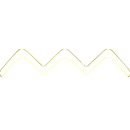
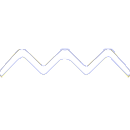
sponsor section done

diff --git a/src/styles/app.scss b/src/styles/app.scss
@@ -48,6 +48,9 @@ $my-black: #060606;
         color: $main-btn-color;
     }
 }
+.separator {
+    width: 70px;
+}
 // -----------------------------------------
 #app {
     font-family: "Barlow Semi Condensed", sans-serif;
@@ -117,9 +120,6 @@ $my-black: #060606;
             color: white;
             line-height: 1;
         }
-        img {
-            width: 70px;
-        }
         p {
             font-size: 23px;
             font-weight: 400;
@@ -169,9 +169,6 @@ $my-black: #060606;
                 font-size: 48px;
                 font-weight: 500;
                 color: white;
-            }
-            img {
-                width: 70px;
             }
             .avatar-cont {
                 margin-top: -12px;
@@ -230,8 +227,9 @@ $my-black: #060606;
                     img {
                         transform: scale(0.3);
                         position: absolute;
-                        bottom: 45px;
-                        left: -45px;
+                        bottom: 42px;
+                        left: -42px;
+                        width: 125px;
                     }
                     h2 {
                         color: white;
@@ -382,7 +380,6 @@ $my-black: #060606;
                 }
             }
             img {
-                width: 70px;
                 margin-bottom: 20px;
             }
             input {
@@ -480,7 +477,6 @@ $my-black: #060606;
             margin: auto;
         }
         img {
-            width: 70px;
             margin-bottom: 15px;
         }
         .small-p {
@@ -492,6 +488,22 @@ $my-black: #060606;
             font-size: 18px;
             &:hover {
                 background-color: $hover-button;
+            }
+        }
+    }
+    .sponsor-cont {
+        padding: 120px 0;
+        .card {
+            text-align: center;
+            border: 0;
+            display: flex;
+            align-items: center;
+            p {
+                font-size: 18px;
+                margin-top: -15px;
+            }
+            .card-img-top {
+                width: 55%;
             }
         }
     }

diff --git a/src/components/StudiosCard.vue b/src/components/StudiosCard.vue
@@ -1,0 +1,60 @@
+<template>
+  <div class="container-fluid sponsor-cont">
+    <div class="container">
+      <div class="row g-4">
+        <div class="col-3" v-for="(card, i) in sponsorList" :key="i">
+          <div class="card">
+            <img :src="card.imgUrl" class="card-img-top mb-3" alt="logo" />
+            <img
+              class="separator"
+              src="@/assets/img/zigzag-blu.png"
+              alt="separator"
+            />
+            <div class="card-body">
+              <p class="card-text">
+                {{ card.text }}
+              </p>
+              <a href="#" class="my-link">
+                <span
+                  >{{ card.link }}
+                  <i class="fa fa-angle-right ps-2" aria-hidden="true"></i
+                ></span>
+              </a>
+            </div>
+          </div>
+        </div>
+      </div>
+    </div>
+  </div>
+</template>
+<script>
+export default {
+  name: "StudiosCard",
+  data() {
+    return {
+      sponsorList: [
+        {
+          imgUrl: require("@/assets/img/sponsor-1-2x.png"),
+          text: "Tristique aliquam in nullam habitasse nunc, amet vel consectetur. Nulla in suspendisse dolr, aliquet.",
+          link: "Visit Yoga Studio",
+        },
+        {
+          imgUrl: require("@/assets/img/sponsor-2-2x.png"),
+          text: "Feugiat etiam dui mauris pharetra mauris sed pharetra. Convallis sapien ornare cras faucibus nulla porta dui a.",
+          link: "Join Fitness Center",
+        },
+        {
+          imgUrl: require("@/assets/img/sponsor-3-2x.png"),
+          text: "Nisl at quam adipiscing montes, nec, adipiscing commodo aliquam tincidunt. Ligula in habitant et sagittis imperdiet.",
+          link: "Learn about FC",
+        },
+        {
+          imgUrl: require("@/assets/img/sponsor-4-2x.png"),
+          text: "Proin in viverra maecenas et mattis ut nibh enim. Gravida ultricies mi porta lacus. Et posuere velit sed nec eleifend.",
+          link: "Visit Power Gym",
+        },
+      ],
+    };
+  },
+};
+</script>

diff --git a/src/App.vue b/src/App.vue
@@ -20,6 +20,8 @@
       <ArticleCard></ArticleCard>
       <!-- Section Hero 2  -->
       <Hero2></Hero2>
+      <!-- Studios-Locations Section  -->
+      <StudiosCard></StudiosCard>
     </main>
     <footer></footer>
   </div>
@@ -35,6 +37,7 @@ import MailingSection from "@/components/MailingSection";
 import PlanCard from "@/components/PlanCard";
 import ArticleCard from "@/components/ArticleCard";
 import Hero2 from "@/components/Hero2";
+import StudiosCard from "@/components/StudiosCard";
 export default {
   name: "App",
   components: {
@@ -47,6 +50,7 @@ export default {
     PlanCard,
     ArticleCard,
     Hero2,
+    StudiosCard,
   },
 };
 </script>

diff --git a/src/components/CardContainer.vue b/src/components/CardContainer.vue
@@ -16,7 +16,7 @@
         "How you respond to the challenge in the second half will determine what
         you become after the game, whether you are a winner or a lose."
       </p>
-      <img src="@/assets/img/zigzag.png" alt="separator" />
+      <img class="separator" src="@/assets/img/zigzag.png" alt="separator" />
       <div class="d-flex avatar-cont justify-content-center">
         <img src="@/assets/img/avatar-1-2x.jpg" alt="avatar" />
         <span class="pe-3">Brad Johnson</span>

diff --git a/src/components/Hero.vue b/src/components/Hero.vue
@@ -5,7 +5,11 @@
         <div class="col-8">
           <h2 class="pb-2">Certified fitness professional</h2>
           <h1>Take control of your health</h1>
-          <img src="@/assets/img/zigzag.png" alt="separator" />
+          <img
+            class="separator"
+            src="@/assets/img/zigzag.png"
+            alt="separator"
+          />
           <p class="pb-4">
             Curabitur non nulla sit amet nisl tempus convallis quis ac lectus
             dolor sit amet.

diff --git a/src/components/Hero2.vue b/src/components/Hero2.vue
@@ -4,7 +4,7 @@
       <p>
         "I've failed over and over again in my life. And that is why i succeed."
       </p>
-      <img src="@/assets/img/zigzag.png" alt="separator" />
+      <img class="separator" src="@/assets/img/zigzag.png" alt="separator" />
       <p class="small-p">
         Arcu auctor gravida nisl, congue sit nisi tincidunt eget proin. In
         lacinia lacus donec sed massa in ipsum eros, tristique. Gravida

diff --git a/src/components/Card.vue b/src/components/Card.vue
@@ -4,7 +4,11 @@
       <img :src="imgUrl" :alt="title" />
       <div class="overlay">
         <div class="position-relative">
-          <img src="@/assets/img/zigzag-white.png" alt="separator" />
+          <img
+            class="separator"
+            src="@/assets/img/zigzag-white.png"
+            alt="separator"
+          />
           <h2>{{ title }}</h2>
           <h3>{{ text }}</h3>
         </div>

diff --git a/src/components/MailingSection.vue b/src/components/MailingSection.vue
@@ -5,7 +5,7 @@
       <div class="h1-cont">
         <h1>Insider offers &amp; flash sales in your inbox every week.</h1>
       </div>
-      <img src="@/assets/img/zigzag.png" alt="separator" />
+      <img class="separator" src="@/assets/img/zigzag.png" alt="separator" />
       <div class="d-flex mb-4">
         <div class="input-group">
           <input type="email" placeholder="Insert your email ...*" />
